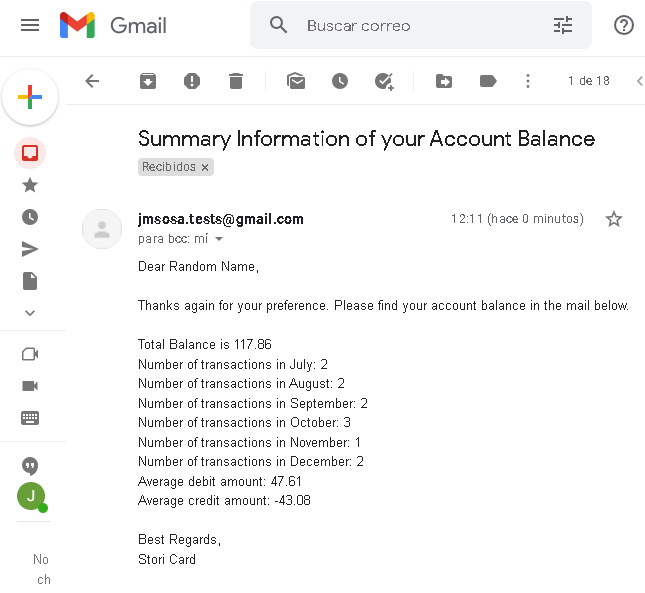
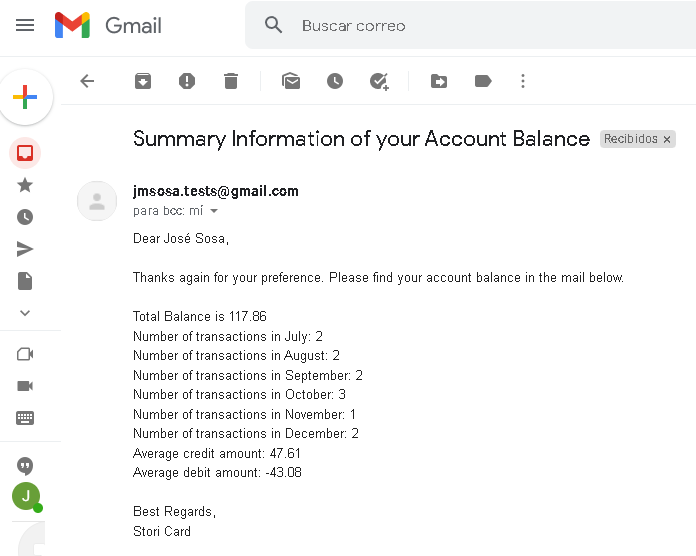
fix: flipped debit and credit value on email body

diff --git a/email/email.go b/email/email.go
@@ -116,8 +116,8 @@ func BuildEmail(user UserEmail) (string, string, error) {
 		"Thanks again for your preference. Please find your account balance in the mail below.\n\n" +
 		"Total Balance is " + strgTotalBalance + "\n" +
 		strgNumTx +
-		"Average debit amount: " + strgAvrgCredit + "\n" +
-		"Average credit amount: " + strgAvrgDebit + "\n\n" +
+		"Average credit amount: " + strgAvrgCredit + "\n" +
+		"Average debit amount: " + strgAvrgDebit + "\n\n" +
 		"Best Regards,\nStori Card\n"
 
 	// fmt.Println(subject)
